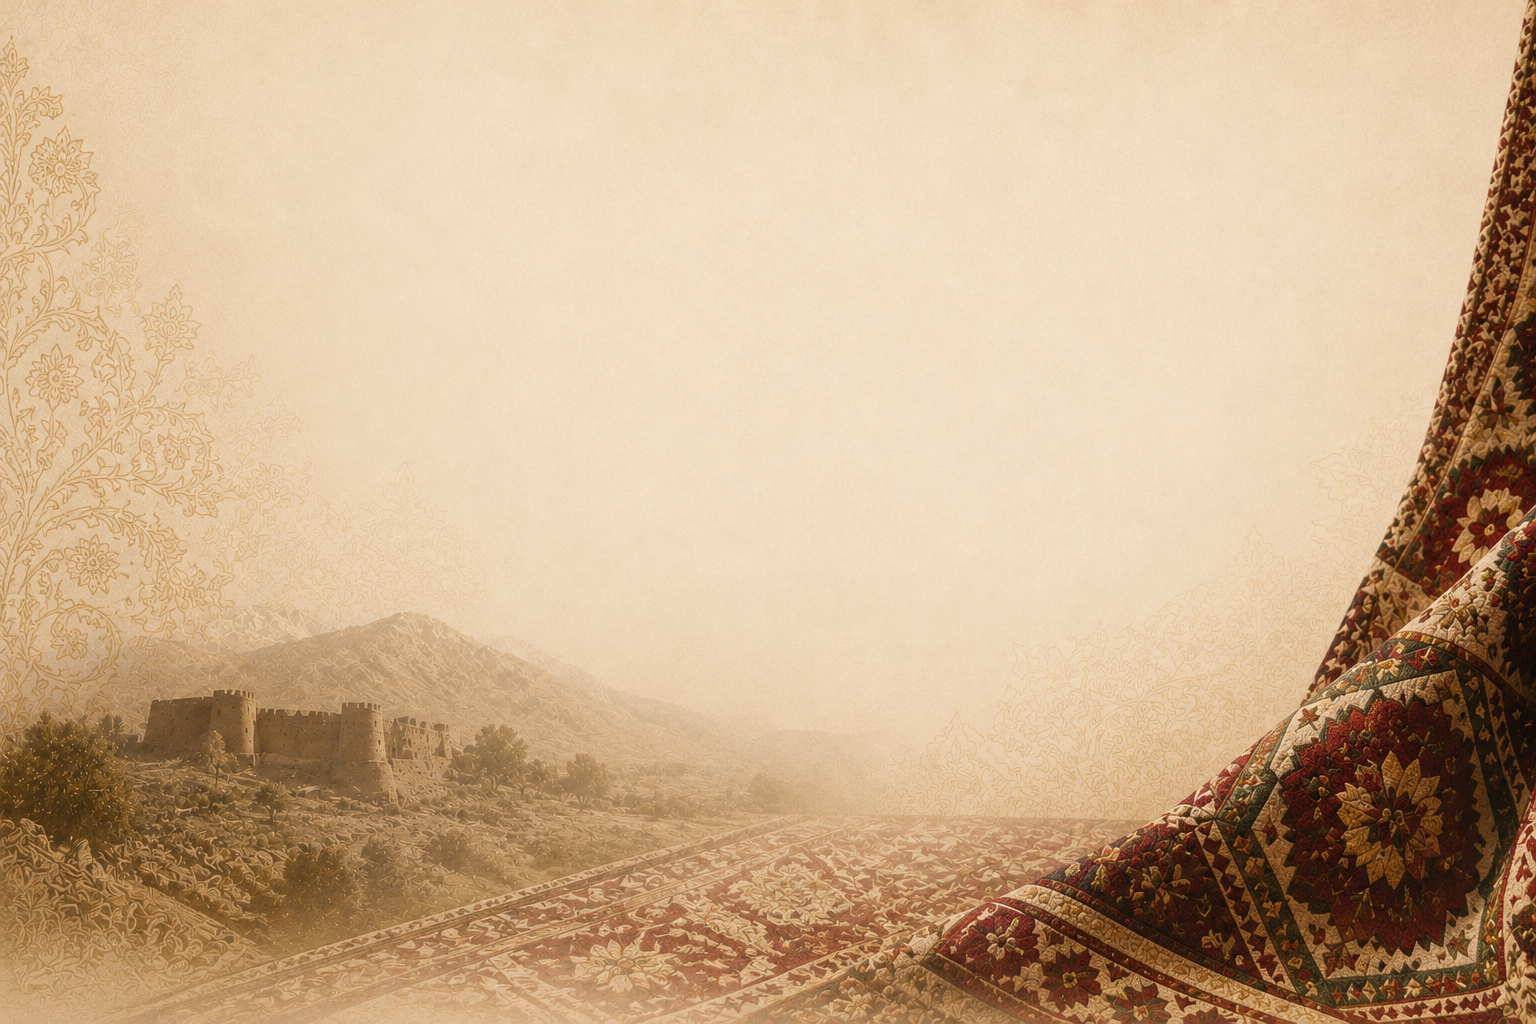
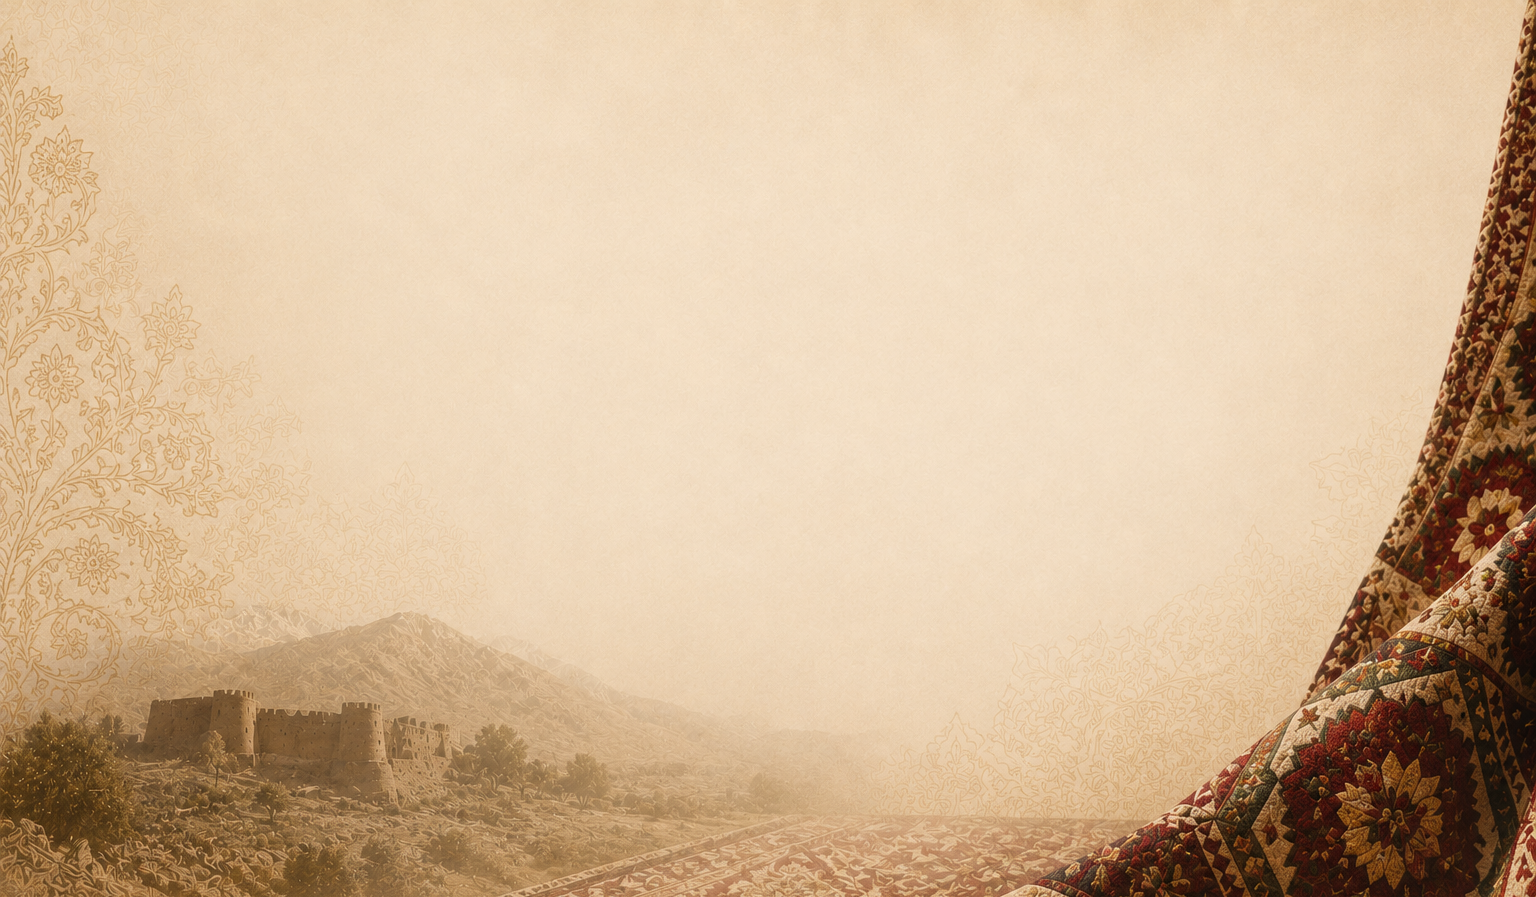
second commit

diff --git a/src/components/layout/components/footer/footer.jsx b/src/components/layout/components/footer/footer.jsx
@@ -1,4 +1,4 @@
-import bgImage from '../../../../assets/images/image (4).png'
+import bgImage from '../../../../assets/images/image_f.png'
 import logo from '../../../../assets/images/Logo.png'
 import iconAI from '../../../../assets/images/Geometry Icon copy.png';
 import { MapPin, Send } from 'lucide-react';
@@ -8,6 +8,7 @@ import { MdLocationOn } from 'react-icons/md';
 import { RiInstagramFill } from 'react-icons/ri';
 import { GiCheckedShield } from 'react-icons/gi';
 import { HiBuildingLibrary } from 'react-icons/hi2';
+import { useEffect, useState } from 'react';
 const Footer = () => {
   let arrData = [
     {
@@ -35,6 +36,10 @@ const Footer = () => {
       text2: "Мы сохраняем традицию и историю для будущего" 
     }
   ]
+  let [copyStyle, setCopyStyle] = useState(false)
+  useEffect(() => {
+    setTimeout(() => setCopyStyle(false), 500)
+  }, [copyStyle])
   return (
     <div>
         <footer className='relative'>
@@ -65,10 +70,10 @@ const Footer = () => {
                   <p className='text-[#b17912] font-bold text-[25px]'>СВЯЖИТЕСЬ С НАМИ</p>
                   <LineDot className="w-full my-2"/>
                   <div className='flex flex-col gap-4 mt-5'>
-                    <p className='flex items-center gap-3'><MdLocationOn size={24} className='text-[#b17912]'/>Душанбе, республика Таджикистан</p>
-                    <a href={`https://t.me/codingiTojikona`} className='flex items-center gap-3'><FaTelegramPlane size={24} className='text-[#b17912]'/>https://t.me/codingiTojikona</a>
-                    <a href={`https://www.instagram.com/kavsaracademy.tj?igsh=NzJsYWIxaTF0eDJ2`} className='flex items-center gap-3'><RiInstagramFill  size={24} className='text-[#b17912]'/>kavsaracademy.tj</a>
-                    <p onClick={() => navigator.clipboard.writeText("([phone redacted]")} className='flex items-center gap-3'><FaPhoneAlt   size={23} className='text-[#b17912]'/>([phone redacted]</p>
+                    <a href="https://www.google.com/maps/search/?api=1&query=Nemat+Karaboyev+29,+Dushanbe,+Tajikistan" target='_blank' rel="noopener noreferrer" className='flex items-center gap-3'><MdLocationOn size={24} className='text-[#b17912]'/>Душанбе, республика Таджикистан</a>
+                    <a href={`https://t.me/codingiTojikona`} target='_blank' rel="noopener noreferrer" className='flex items-center gap-3'><FaTelegramPlane size={24} className='text-[#b17912]'/>codingiTojikona</a>
+                    <a href={`https://www.instagram.com/kavsaracademy.tj?igsh=NzJsYWIxaTF0eDJ2`} target='_blank' rel="noopener noreferrer" className='flex items-center gap-3'><RiInstagramFill  size={24} className='text-[#b17912]'/>kavsaracademy.tj</a>
+                    <a href="tel:[phone redacted]" className="hover:underline flex items-center gap-3"><FaPhoneAlt size={23} className='text-[#b17912]'/>([phone redacted]</a>
                   </div>
                 </div>
               </div>